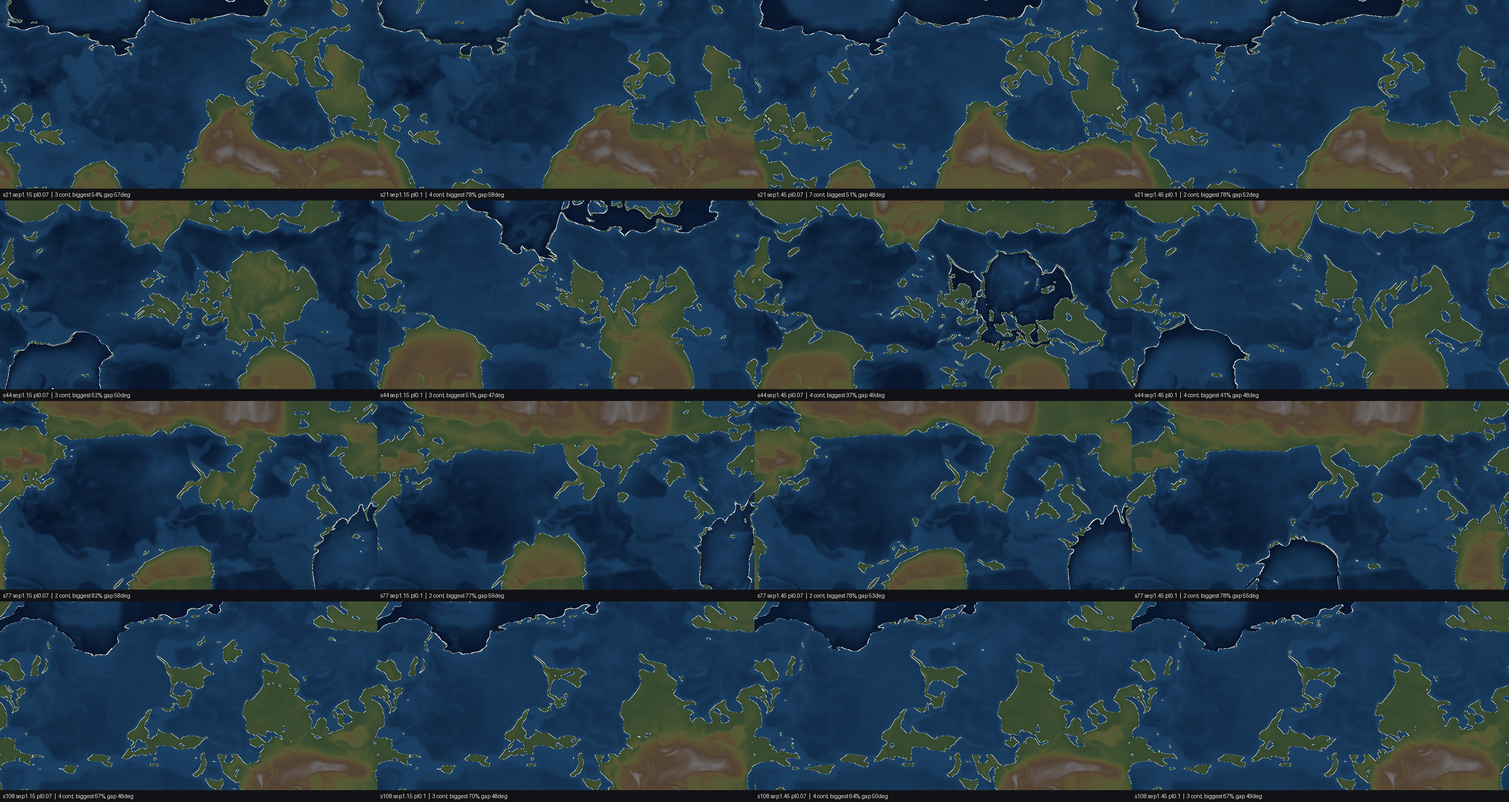
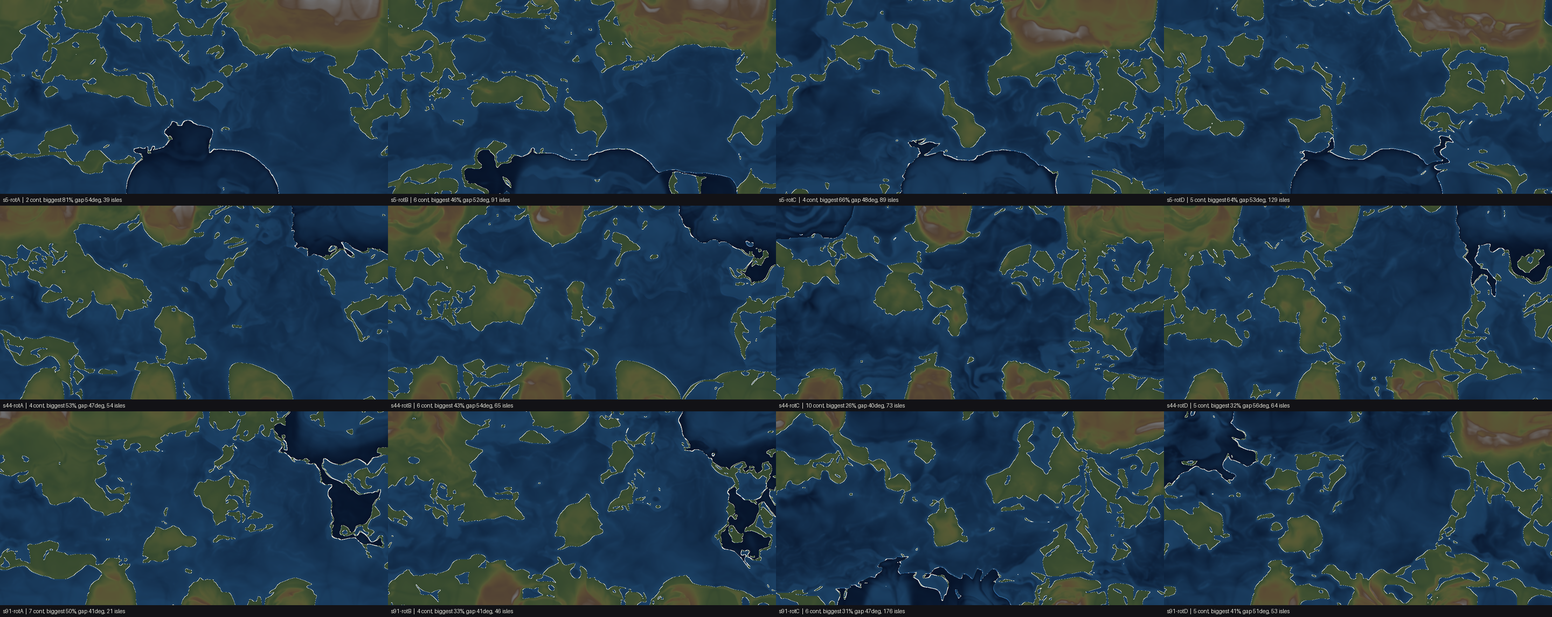
Add pole shift, orogeny and hotspot chains to world generation
The pole shift replaces the old roll-and-flip disguise with a true spherical
rotation about an arbitrary axis, so land genuinely changes latitude rather
than merely changing position on the image. This is now canon: the Doom moved
the axis and reversed the magnetic poles, which is why every surviving chart,
almanac and compass became wrong at once - and therefore why the world had to
be rediscovered rather than merely revisited.

Also adds mountain belts along platform margins (uplift follows the steepest
gradients of the platform field, giving cordilleras rather than scattered
lumps) and Hawaii-style hotspot island chains in open ocean.

Second sweep produces far greater variety: seed 44 under rotation C yields
ten continents with the largest holding only 26 percent of land.

Claude-Session: https://claude.ai/code/session_018RNiR11dzHysuEZosmUT3X

diff --git a/maps/generate_world.py b/maps/generate_world.py
@@ -82,6 +82,82 @@ def load_earth():
     return z.astype(np.float32)
 
 
+def spherical_rotate(z, alpha, beta, gamma):
+    """Rotate the whole globe about an arbitrary axis.
+
+    Unlike a longitudinal roll, this genuinely moves land between the tropics
+    and the poles: a continent that sat on the equator can end up under ice.
+    Every output pixel is converted to a unit vector, rotated, and read back
+    from the source — so the poles behave correctly instead of smearing.
+
+    In-world this is the pole shift: the Doom left the axis in a new place,
+    and north is not where it was.
+    """
+    h, w = z.shape
+    lat = np.linspace(np.pi / 2, -np.pi / 2, h)[:, None]
+    lon = np.linspace(-np.pi, np.pi, w, endpoint=False)[None, :]
+
+    cl = np.cos(lat)
+    v = np.stack([
+        np.broadcast_to(cl * np.cos(lon), (h, w)),
+        np.broadcast_to(cl * np.sin(lon), (h, w)),
+        np.broadcast_to(np.broadcast_to(np.sin(lat), (h, 1)), (h, w)),
+    ])
+
+    a, b, g = np.radians([alpha, beta, gamma])
+    Rz = np.array([[np.cos(a), -np.sin(a), 0], [np.sin(a), np.cos(a), 0], [0, 0, 1]])
+    Ry = np.array([[np.cos(b), 0, np.sin(b)], [0, 1, 0], [-np.sin(b), 0, np.cos(b)]])
+    Rx = np.array([[1, 0, 0], [0, np.cos(g), -np.sin(g)], [0, np.sin(g), np.cos(g)]])
+    R = Rz @ Ry @ Rx
+
+    vr = np.tensordot(R, v, axes=(1, 0))
+    lat2 = np.arcsin(np.clip(vr[2], -1, 1))
+    lon2 = np.arctan2(vr[1], vr[0])
+
+    yy = (np.pi / 2 - lat2) / np.pi * (h - 1)
+    xx = (lon2 + np.pi) / (2 * np.pi) * w
+    return sample(z, yy, xx)
+
+
+def hotspot_chains(z, rng, n_chains, length, strength):
+    """Volcanic island chains, Hawaii-style: a plate creeping over a fixed
+    mantle plume leaves a line of islands, oldest and lowest at one end."""
+    h, w = z.shape
+    out = z.copy()
+    yy, xx = np.mgrid[0:h, 0:w].astype(np.float32)
+    latw = latitude_weight(h, w)
+
+    for _ in range(n_chains):
+        y0 = rng.uniform(h * 0.15, h * 0.85)
+        x0 = rng.uniform(0, w)
+        ang = rng.uniform(0, 2 * np.pi)
+        n_isl = rng.integers(5, 13)
+        for i in range(n_isl):
+            t = i / max(n_isl - 1, 1)
+            cy = y0 + np.sin(ang) * length * t
+            cx = x0 + np.cos(ang) * length * t
+            if not (0 < cy < h):
+                break
+            r = rng.uniform(3, 9) * (1.0 - 0.5 * t)
+            dx = (np.mod(xx - cx + w / 2, w) - w / 2) * latw
+            d2 = dx ** 2 + (yy - cy) ** 2
+            out += strength * (1.0 - 0.55 * t) * np.exp(-d2 / (2 * r ** 2))
+    return out
+
+
+def orogeny(z, rng, field, strength):
+    """Mountain belts where platforms collide. Real ranges sit along plate
+    margins, not scattered at random — so uplift follows the steepest
+    gradients of the platform field, giving coastal cordilleras and interior
+    spines rather than noise."""
+    gy, gx = np.gradient(ndimage.gaussian_filter(field, 6, mode=("nearest", "wrap")))
+    belt = np.sqrt(gx ** 2 + gy ** 2)
+    belt /= belt.max() or 1
+    belt = belt ** 1.6
+    ridged = 1.0 - np.abs(fbm(z.shape, rng, octaves=4, base=30))
+    return z + strength * belt * (0.55 + 0.45 * np.clip(ridged, 0, 1))
+
+
 def impact(z, rng, lat_deg, lon_deg, radius_px, depth):
     """Oceanic strike. Excavates a crater, throws up a ring, and radiates
     fracture lines that later become rifts and island arcs."""
@@ -142,7 +218,7 @@ def continental_platforms(z, rng, strength, scale, separation=1.0):
     # wide while continents stay compact.
     up = np.clip(field, 0, None)
     down = np.clip(field, None, 0)
-    return z + strength * (up + down * (0.6 + 0.9 * separation))
+    return z + strength * (up + down * (0.6 + 0.9 * separation)), field
 
 
 def drown_a_continent(z, rank=1, margin=180.0):
@@ -258,17 +334,25 @@ def render_heightmap(z):
 
 def build(seed, land_fraction, warp, rift, impact_lat, impact_lon,
           platform=2600.0, platform_scale=0.075, separation=1.0,
-          lost_continent=True, lost_rank=1):
+          lost_continent=True, lost_rank=1, rotation=(121.0, 47.0, 29.0),
+          hotspots=6, mountains=1.0):
     rng = np.random.default_rng(seed)
     z = load_earth()
-    z = np.roll(z, rng.integers(W // 6, W - W // 6), axis=1)   # break Earth's look
-    if rng.random() < 0.5:
-        z = np.fliplr(z)
-    z = np.flipud(z)                                   # disguise: hemispheres swap
+
+    # --- the pole shift -------------------------------------------------
+    # A true rotation of the sphere about an arbitrary axis. Land moves
+    # between the tropics and the poles; north is no longer where it was.
+    z = spherical_rotate(z, *rotation)
+
     z = impact(z, rng, impact_lat, impact_lon, radius_px=W * 0.035, depth=4200)
     z = tectonic_warp(z, rng, amplitude=W * warp, base_scale=W * 0.060)
-    z = continental_platforms(z, rng, platform, W * platform_scale, separation)
+    z, field = continental_platforms(z, rng, platform, W * platform_scale,
+                                     separation)
+    z = orogeny(z, rng, field, strength=2100 * mountains)
     z = rifting(z, rng, strength=2400 * rift, n_rifts=4)
+    if hotspots:
+        z = hotspot_chains(z, rng, n_chains=hotspots, length=W * 0.055,
+                           strength=2500)
     z = erode(z, rng)
 
     lost = None
@@ -299,13 +383,18 @@ def main():
     p.add_argument("--no-lost-continent", action="store_true")
     p.add_argument("--lost-rank", type=int, default=1)
     p.add_argument("--width", type=int, default=2880)
+    p.add_argument("--rot", type=float, nargs=3, default=[121.0, 47.0, 29.0],
+                   help="pole-shift rotation: three Euler angles in degrees")
+    p.add_argument("--hotspots", type=int, default=6)
+    p.add_argument("--mountains", type=float, default=1.0)
     p.add_argument("--out", default="world")
     a = p.parse_args()
     set_resolution(a.width)
 
     z, lost = build(a.seed, a.land_fraction, a.warp, a.rift,
                     a.impact_lat, a.impact_lon, a.platform, a.platform_scale,
-                    a.separation, not a.no_lost_continent, a.lost_rank)
+                    a.separation, not a.no_lost_continent, a.lost_rank,
+                    tuple(a.rot), a.hotspots, a.mountains)
 
     render_colour(z).save(f"{a.out}_seed{a.seed}_colour.png")
     render_heightmap(z).save(f"{a.out}_seed{a.seed}_height.png")

diff --git a/maps/sweep.py b/maps/sweep.py
@@ -1,44 +1,55 @@
 #!/usr/bin/env python3
 """Generate a contact sheet of candidate worlds so one can be chosen by eye."""
 
-import itertools
+import sys
 import numpy as np
 from PIL import Image, ImageDraw
 import generate_world as G
 
-G.set_resolution(1000)
+G.set_resolution(int(sys.argv[1]) if len(sys.argv) > 1 else 1100)
 
-COMBOS = list(itertools.product(
-    [21, 44, 77, 108],          # seeds
-    [1.15, 1.45],               # separation
-    [0.070, 0.100],             # platform scale
-))
+# Pole-shift rotations. Alpha is the longitudinal spin; beta tilts the axis,
+# which is what actually moves land between tropics and poles.
+ROTS = {
+    "A": (121.0, 47.0, 29.0),
+    "B": (121.0, 78.0, 12.0),
+    "C": ( 37.0, 62.0, 71.0),
+    "D": (203.0, 35.0, 55.0),
+}
 
-COLS, THUMB_W = 4, 700
-tiles, labels = [], []
+COMBOS = [(seed, rk, sep)
+          for seed in (5, 44, 91)
+          for rk in ("A", "B", "C", "D")
+          for sep in (1.30,)]
 
-for seed, sep, pscale in COMBOS:
-    z, lost = G.build(seed, land_fraction=0.25, warp=0.035, rift=0.5,
+COLS, THUMB_W = 4, 720
+tiles, labels, best = [], [], []
+
+for seed, rk, sep in COMBOS:
+    z, lost = G.build(seed, land_fraction=0.25, warp=0.038, rift=0.6,
                       impact_lat=8.0, impact_lon=-150.0,
-                      platform=3800, platform_scale=pscale,
-                      separation=sep, lost_continent=True, lost_rank=1)
+                      platform=3800, platform_scale=0.072,
+                      separation=sep, lost_continent=True, lost_rank=1,
+                      rotation=ROTS[rk], hotspots=7, mountains=1.0)
 
     land = z >= 0
     lab, n = G.ndimage.label(land, structure=np.ones((3, 3)))
     sizes = np.sort(np.bincount(lab.ravel())[1:])[::-1]
     total = sizes.sum()
     gap = G.ndimage.distance_transform_edt(~land).max() / G.W * 360
-    conts = (sizes > total * 0.04).sum()
+    conts = int((sizes > total * 0.04).sum())
     top = 100 * sizes[0] / total
 
+    tag = f"s{seed}-rot{rk}"
     img = G.render_colour(z).resize((THUMB_W, THUMB_W // 2), Image.LANCZOS)
     tiles.append(img)
-    labels.append(f"s{seed} sep{sep} pl{pscale}  |  {conts} cont, "
-                  f"biggest {top:.0f}%, gap {gap:.0f}deg")
+    labels.append(f"{tag}  |  {conts} cont, biggest {top:.0f}%, gap {gap:.0f}deg, "
+                  f"{int((sizes < total*0.001).sum())} isles")
+    best.append((top, tag, conts))
     print(labels[-1], flush=True)
 
-    G.render_heightmap(z).save(f"cand_s{seed}_sep{sep}_pl{pscale}_height.png")
-    img.save(f"cand_s{seed}_sep{sep}_pl{pscale}.png")
+    G.render_heightmap(z).save(f"cand_{tag}_height.png")
+    img.save(f"cand_{tag}.png")
 
 rows = (len(tiles) + COLS - 1) // COLS
 TH = THUMB_W // 2
@@ -49,4 +60,8 @@ for i, (t, cap) in enumerate(zip(tiles, labels)):
     sheet.paste(t, (x, y))
     d.text((x + 6, y + TH + 5), cap, fill=(225, 225, 215))
 sheet.save("contact_sheet.png")
+
+print("\nmost balanced (lowest share held by largest landmass):")
+for top, tag, conts in sorted(best)[:5]:
+    print(f"  {tag}: biggest {top:.0f}%, {conts} continents")
 print("wrote contact_sheet.png")

diff --git a/01-cataclysm/the-doom.md b/01-cataclysm/the-doom.md
@@ -22,6 +22,26 @@ An asteroid strikes deep ocean. Three consequences, on three timescales.
 
 **Over decades to centuries — the Drowning.** The impact destabilises crust already under strain. Continental shelves subside; ocean floor rises elsewhere; meltwater and displaced ocean redistribute. The sea takes some lands entirely and abandons others. The world's coastline is not merely altered but *unrecognisable*, and it keeps moving for generations — which is precisely why nobody could map the world until the Rediscovery. There was no stable world to map.
 
+## The pole shift
+
+**The Doom moved the poles.** The axis the world turns on is not the axis it turned on before, and the magnetic poles reversed with it — north is not where north was.
+
+This is the piece that makes everything else *fit*.
+
+**It justifies the map.** The world's landmasses are not merely drowned and deformed; they sit at latitudes they never occupied. A region that was tropical is under ice. A polar waste is now temperate and full of people. The map is Earth's terrain at Earth's latitudes **rotated onto a new axis** — which is why nothing is where a reader expects, without a single invented landform.
+
+**It explains why the Dark Age was so dark.** Every inherited assumption about the world became wrong at once. Not just the coastlines: the seasons, the star charts, the compass, the growing seasons, the winds, the currents. A surviving farmer with a surviving almanac had a book of lies. A surviving navigator with a surviving chart and a compass had two instruments that disagreed with the sky and with each other. **This is why the world had to be *rediscovered* rather than merely revisited** — knowledge survived and was worthless, which is the Doom's whole signature applied to geography.
+
+**It gives the classical inheritance a wound.** The preserved books describe a world that no longer exists: a Mediterranean at a latitude nothing is at now, stars in the wrong quarter of the sky. Scholars can read every word and cannot place a single location. This is one more reason the lost continent is a live argument — reconciling the old texts with the present map is an entire discipline, and it does not fully work.
+
+**And it seeds a genuinely eerie detail:** somewhere there are old star charts that match nothing overhead. A child could notice that. Most people never think about it at all.
+
+### Open
+- How far did the axis move? (The generator uses roughly 121° of spin with a ~47° tilt — a violent shift.)
+- Did the magnetic reversal happen at the same moment or over centuries? (Real reversals take millennia; a fast one is the more dramatic choice and nobody in-world could prove otherwise.)
+- Is there a surviving pre-Doom star chart, and who has it?
+- Does any faith hold that the sky itself was punished?
+
 ## Why this satisfies every constraint
 
 **Map freedom, honestly earned.** The landmasses are rearranged not by moving rock — which no real process does quickly — but by changing *which rock is above water*. Drown the continental shelves and expose the shallow basins and the map is transformed beyond recognition while remaining geologically sound. Draw whatever you like; it is defensible.

diff --git a/maps/README.md b/maps/README.md
@@ -11,13 +11,22 @@ This is not a geophysical simulation. A true finite-element model of crustal res
 | Stage | What it does | In-world meaning |
 |---|---|---|
 | **Load** | Real Earth elevation + bathymetry | The world before |
-| **Roll / flip** | Longitudinal shift, hemisphere inversion | Disguise. Geologically meaningless, visually essential |
+| **Pole shift** | True rotation of the sphere about an arbitrary axis (three Euler angles), sampled through 3D unit vectors so the poles don't smear | **The Doom moved the axis.** Land changes latitude — tropics go under ice, polar waste becomes temperate. This is why the world had to be *rediscovered*: every chart, almanac and compass became wrong at once |
 | **Impact** | Crater, ejecta ring, radial fracture spokes | The strike |
 | **Tectonic warp** | Multi-octave domain warping — every point displaced by a smooth vector field | Deep-time deformation, "baked in" for the look. *No such time passed in-story* |
-| **Platforms** | Broad regions ride high or founder, sharpened with `tanh` | Isostatic reorganisation. This is what keeps land in coherent continents rather than confetti |
+| **Platforms** | Broad regions ride high or founder, split hard by `separation` | Isostatic reorganisation. Keeps land in coherent continents divided by wide deep ocean |
+| **Orogeny** | Uplift along the steepest gradients of the platform field, with ridged noise | Mountain belts at plate margins — coastal cordilleras and interior spines, not scattered lumps |
 | **Rifting** | Long fracture zones that open seas or raise arcs | New straits, new island chains |
+| **Hotspots** | Linear chains of islands, decaying in size along their length | Mantle plumes under a creeping plate. Hawaii-style archipelagos out in open ocean |
 | **Erosion** | Smoothing plus low-amplitude fractal detail | Aged coastlines |
 | **Drowning** | Sea level set to a target land fraction, area-weighted | Shelves drown, basins rise |
+| **Lost continent** | One platform sunk just below sea level | Earth's landmass that never came back up |
+
+### Why the pole shift matters more than it looks
+
+The first version only *rolled* longitude and flipped the image. That disguises Earth but leaves every landmass at its original latitude, so climate and biome logic stay Earth's — which is exactly why early candidates still felt like Earth wearing a hat.
+
+A true spherical rotation moves land between the tropics and the poles. Nothing is at the latitude it was. And because it's canon — the Doom moved the axis — the map is not a trick played on the reader but a fact about the world.
 
 ### Why the parameters matter
 
